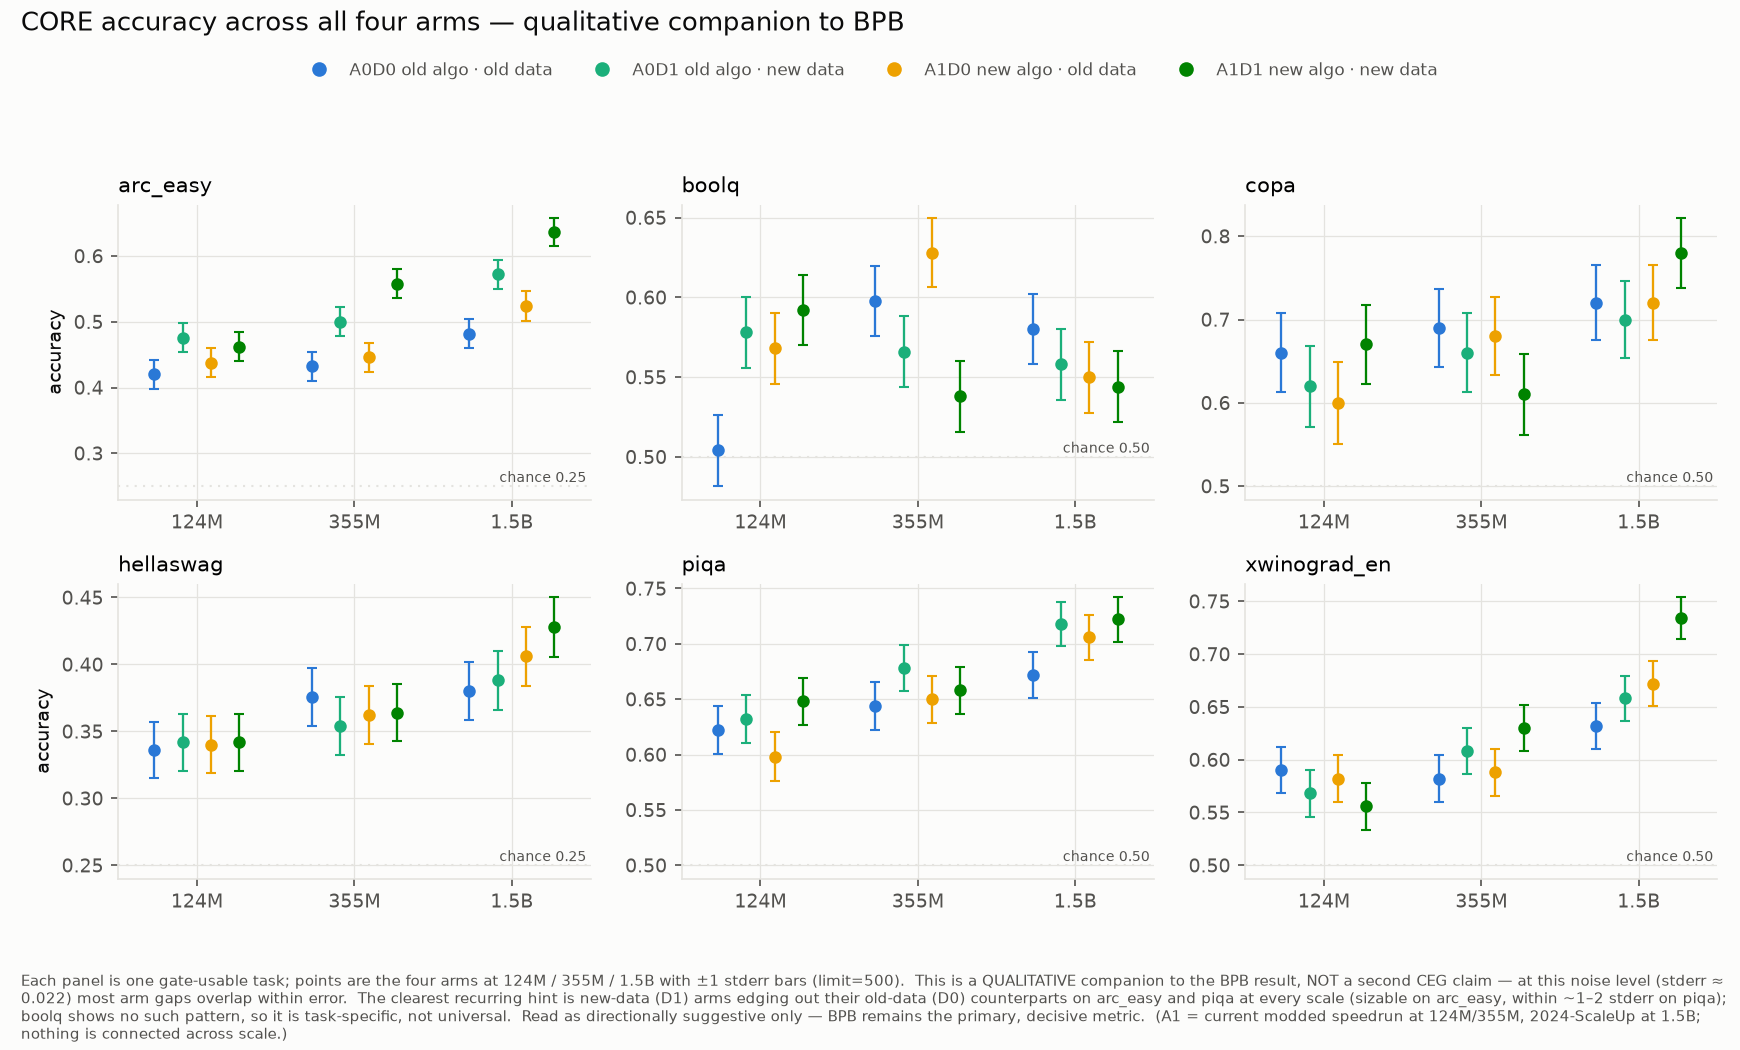
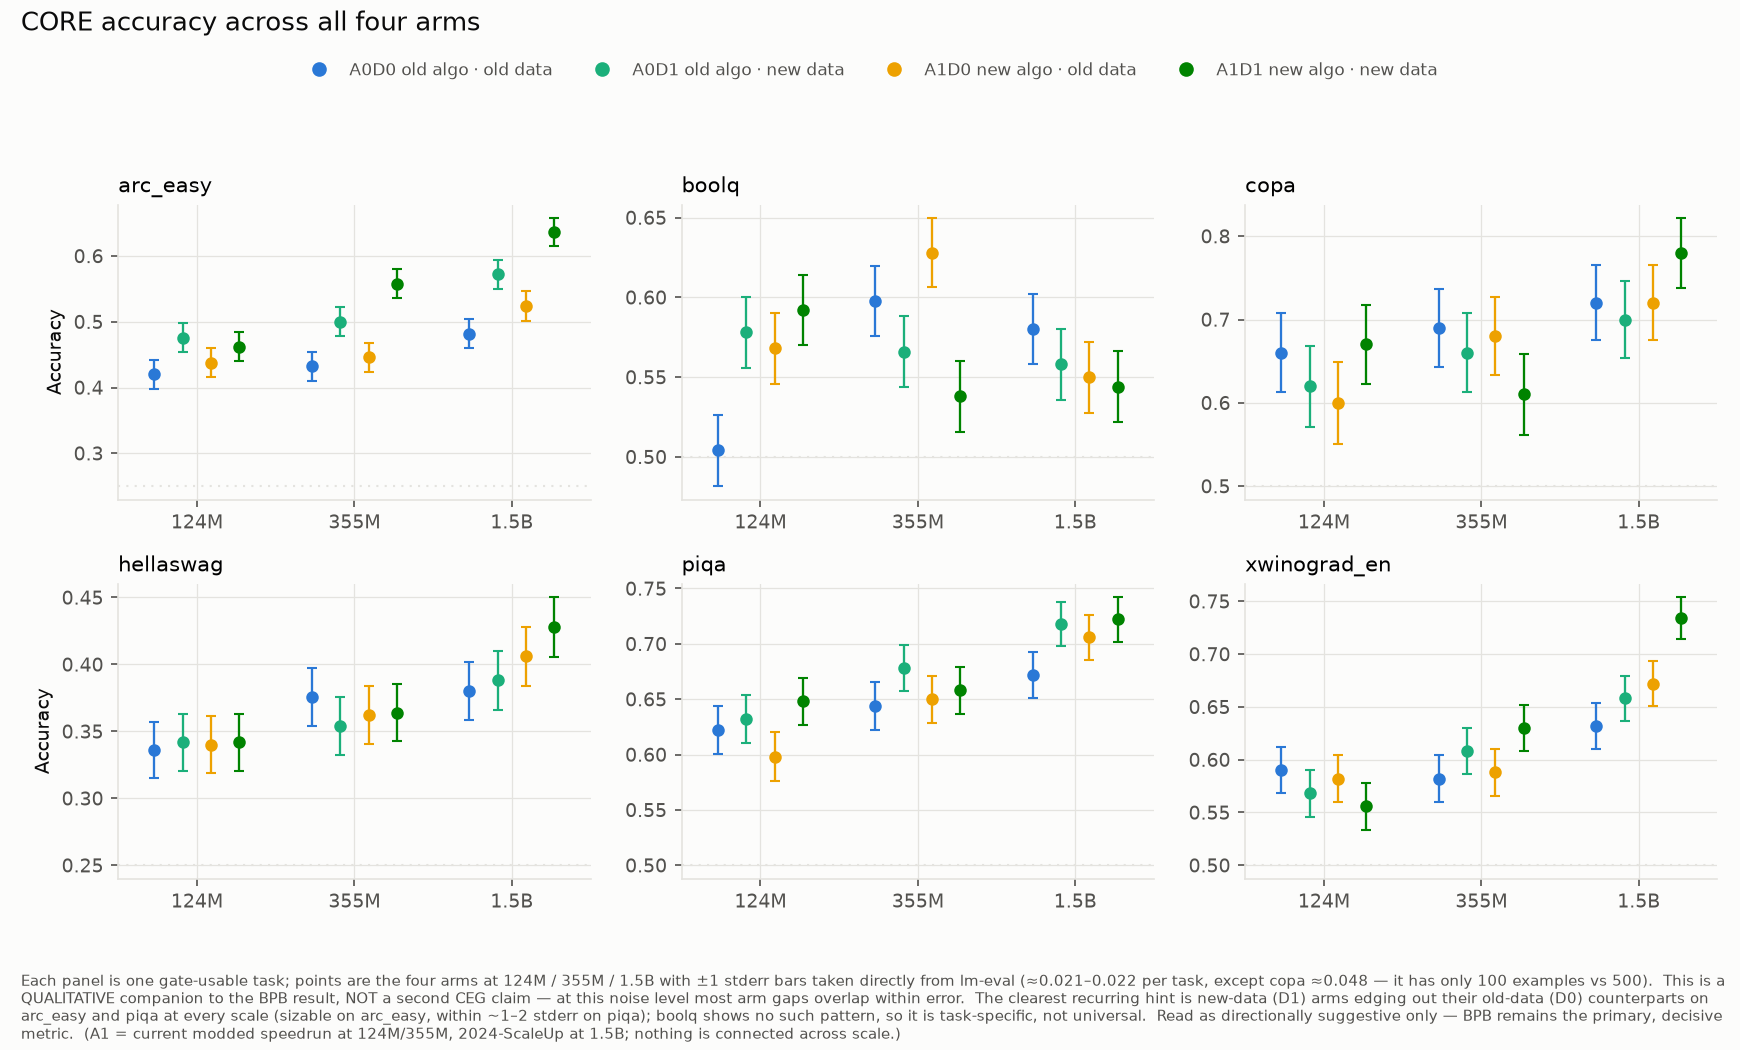
core_arms_by_task: correct footnote to show per-task stderr varies (copa ~0.048 vs ~0.022, 100 vs 500 samples) instead of a flat 0.022; remove chance text labels; capitalize Accuracy; trim title

diff --git a/analysis/plots.py b/analysis/plots.py
@@ -421,9 +421,6 @@ def core_arms_by_task(root: Path, out_path):
         ch = _CORE_CHANCE.get(task)
         if ch is not None:
             ax.axhline(ch, color=GRID, linewidth=1, linestyle=(0, (1, 3)), zorder=1)
-            ax.annotate(f"chance {ch:.2f}", xy=(2.5, ch), xytext=(-2, 2),
-                        textcoords="offset points", ha="right", fontsize=6.5,
-                        color=INK2)
         for si, sc in enumerate(scales):
             for arm in arms:
                 d = data[(sc, arm)].get(task, {})
@@ -439,21 +436,23 @@ def core_arms_by_task(root: Path, out_path):
         ax.set_title(task, fontsize=10, loc="left")
         _style(ax)
         if i % ncol == 0:
-            ax.set_ylabel("accuracy", fontsize=9)
+            ax.set_ylabel("Accuracy", fontsize=9)
     for j in range(len(tasks), len(axf)):
         axf[j].set_visible(False)
     lg = [Line2D([], [], color=ARM_COLORS[a], marker="o", linestyle="none",
                  markersize=6, label=ARM_LABELS[a]) for a in arms]
     fig.legend(handles=lg, frameon=False, fontsize=8, labelcolor=INK2,
                loc="upper center", ncol=4, bbox_to_anchor=(0.5, 0.955))
-    fig.suptitle("CORE accuracy across all four arms — qualitative companion "
-                 "to BPB", fontsize=12.5, x=0.012, ha="left", color=INK, y=0.99)
+    fig.suptitle("CORE accuracy across all four arms", fontsize=12.5, x=0.012,
+                 ha="left", color=INK, y=0.99)
     fig.text(0.012, 0.006,
              "Each panel is one gate-usable task; points are the four arms at "
-             "124M / 355M / 1.5B with ±1 stderr bars (limit=500).  This is a "
-             "QUALITATIVE companion to the BPB result, NOT a second CEG claim — "
-             "at this noise level (stderr ≈ 0.022) most arm gaps overlap within "
-             "error.  The clearest recurring hint is new-data (D1) arms edging "
+             "124M / 355M / 1.5B with ±1 stderr bars taken directly from lm-eval "
+             "(≈0.021–0.022 per task, except copa ≈0.048 — it has only 100 "
+             "examples vs 500).  This is a QUALITATIVE companion to the BPB "
+             "result, NOT a second CEG claim — at this noise level most arm gaps "
+             "overlap within error.  The clearest recurring hint is new-data (D1) "
+             "arms edging "
              "out their old-data (D0) counterparts on arc_easy and piqa at every "
              "scale (sizable on arc_easy, within ~1–2 stderr on piqa); boolq "
              "shows no such pattern, so it is task-specific, not universal.  Read "
